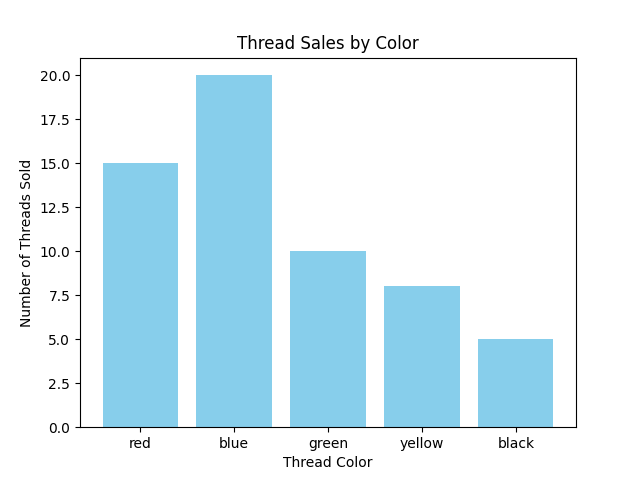
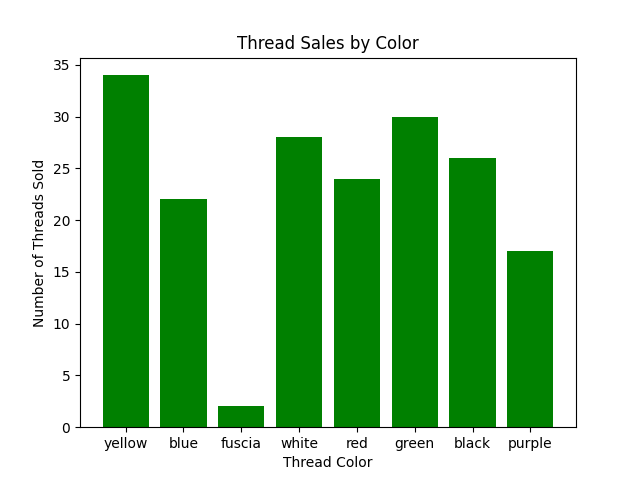
Added test for fusica

diff --git a/main.py b/main.py
@@ -68,15 +68,13 @@ colors = list(set(thread_sold_split))
 for color in colors:
     print(f"Thread Shed sold {color_count(color)} threads of {color} thread today.")
 
-print(total_sales)
+
+thread_counts = [color_count(color) for color in colors]
 
 # === MARK: Bar Chart
-# Assuming you have the following data prepared:
-colors = ['red', 'blue', 'green', 'yellow', 'black']  # List of thread colors
-thread_counts = [15, 20, 10, 8, 5]  # Corresponding counts of threads sold
 
 # Plotting the bar chart
-plt.bar(colors, thread_counts, color='skyblue')
+plt.bar(colors, thread_counts, color='green')
 
 # Adding labels and title
 plt.xlabel('Thread Color')
@@ -85,6 +83,7 @@ plt.title('Thread Sales by Color')
 
 # Save the figure to a file (e.g., 'thread_sales.png')
 plt.savefig('thread_sales.png')
+print("Saved to image! 📷")
 
 # Display the plot (optional)
 plt.show()
